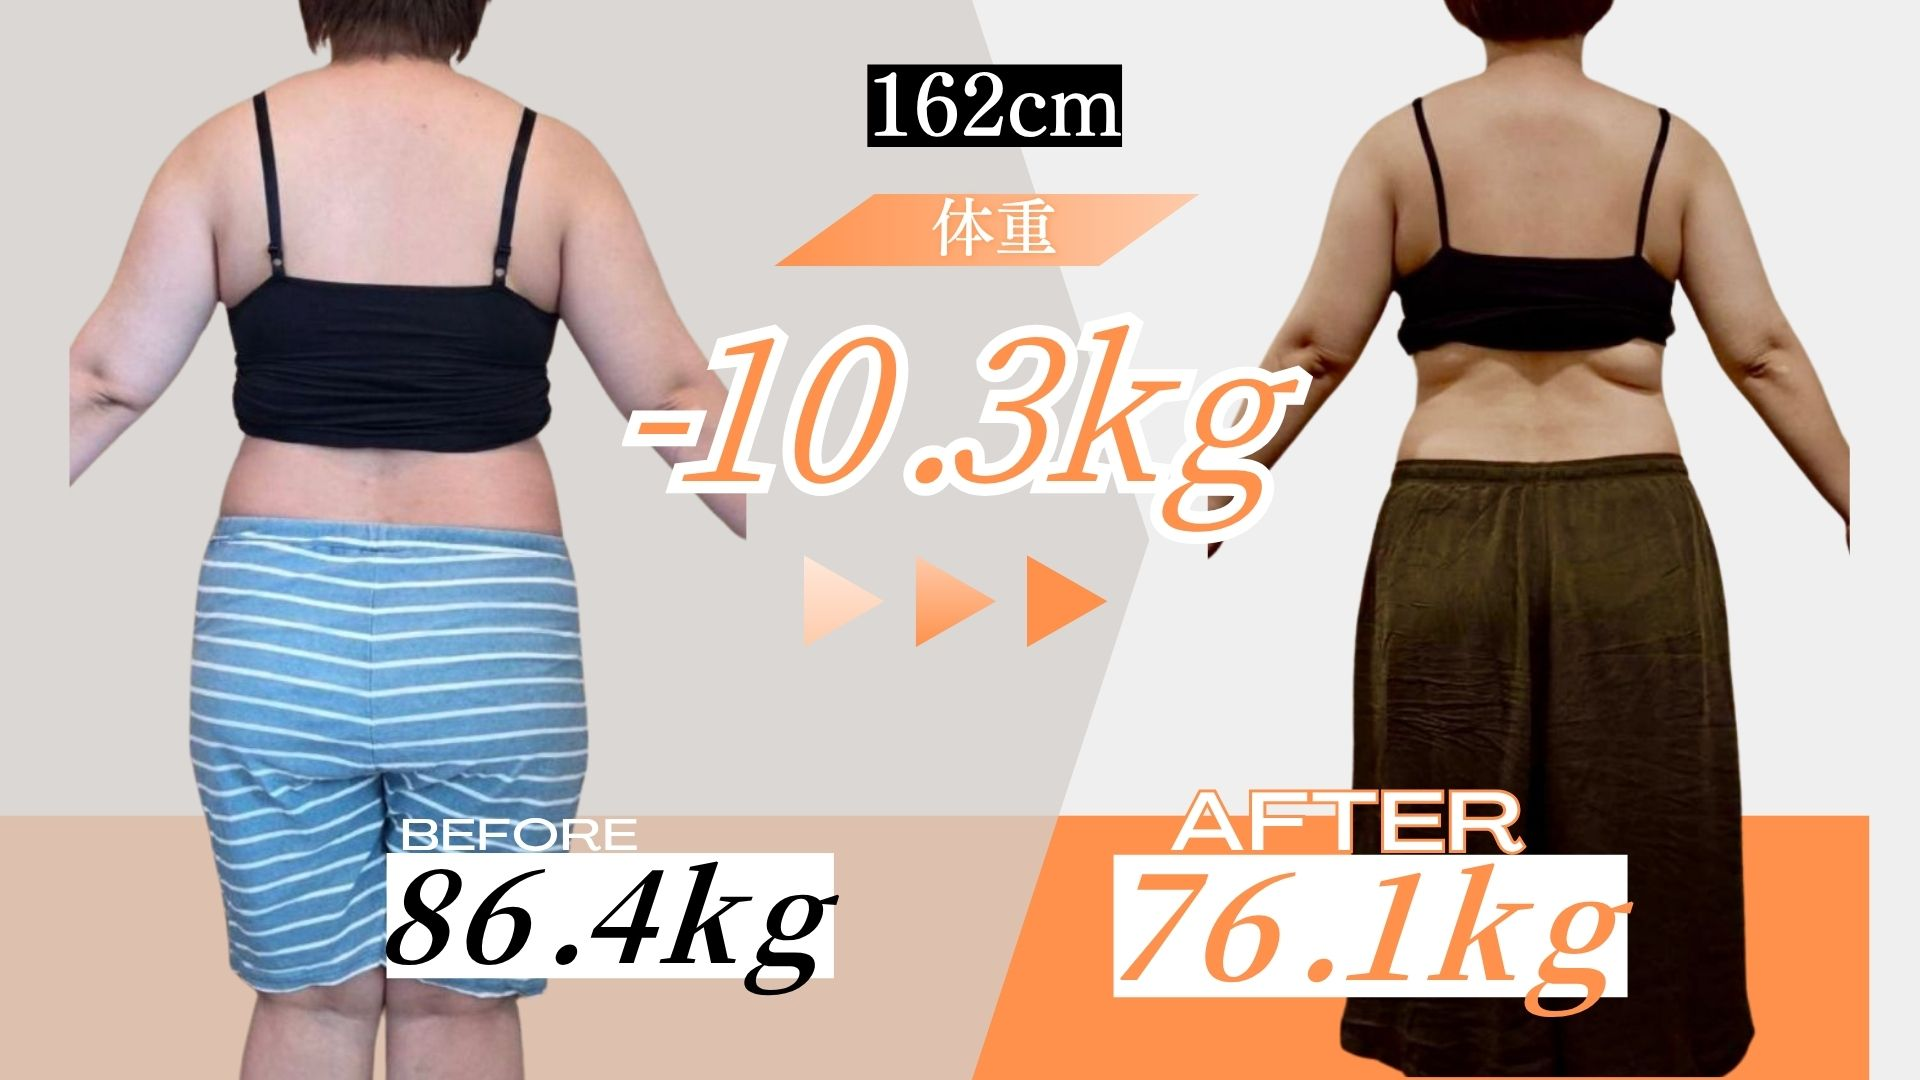
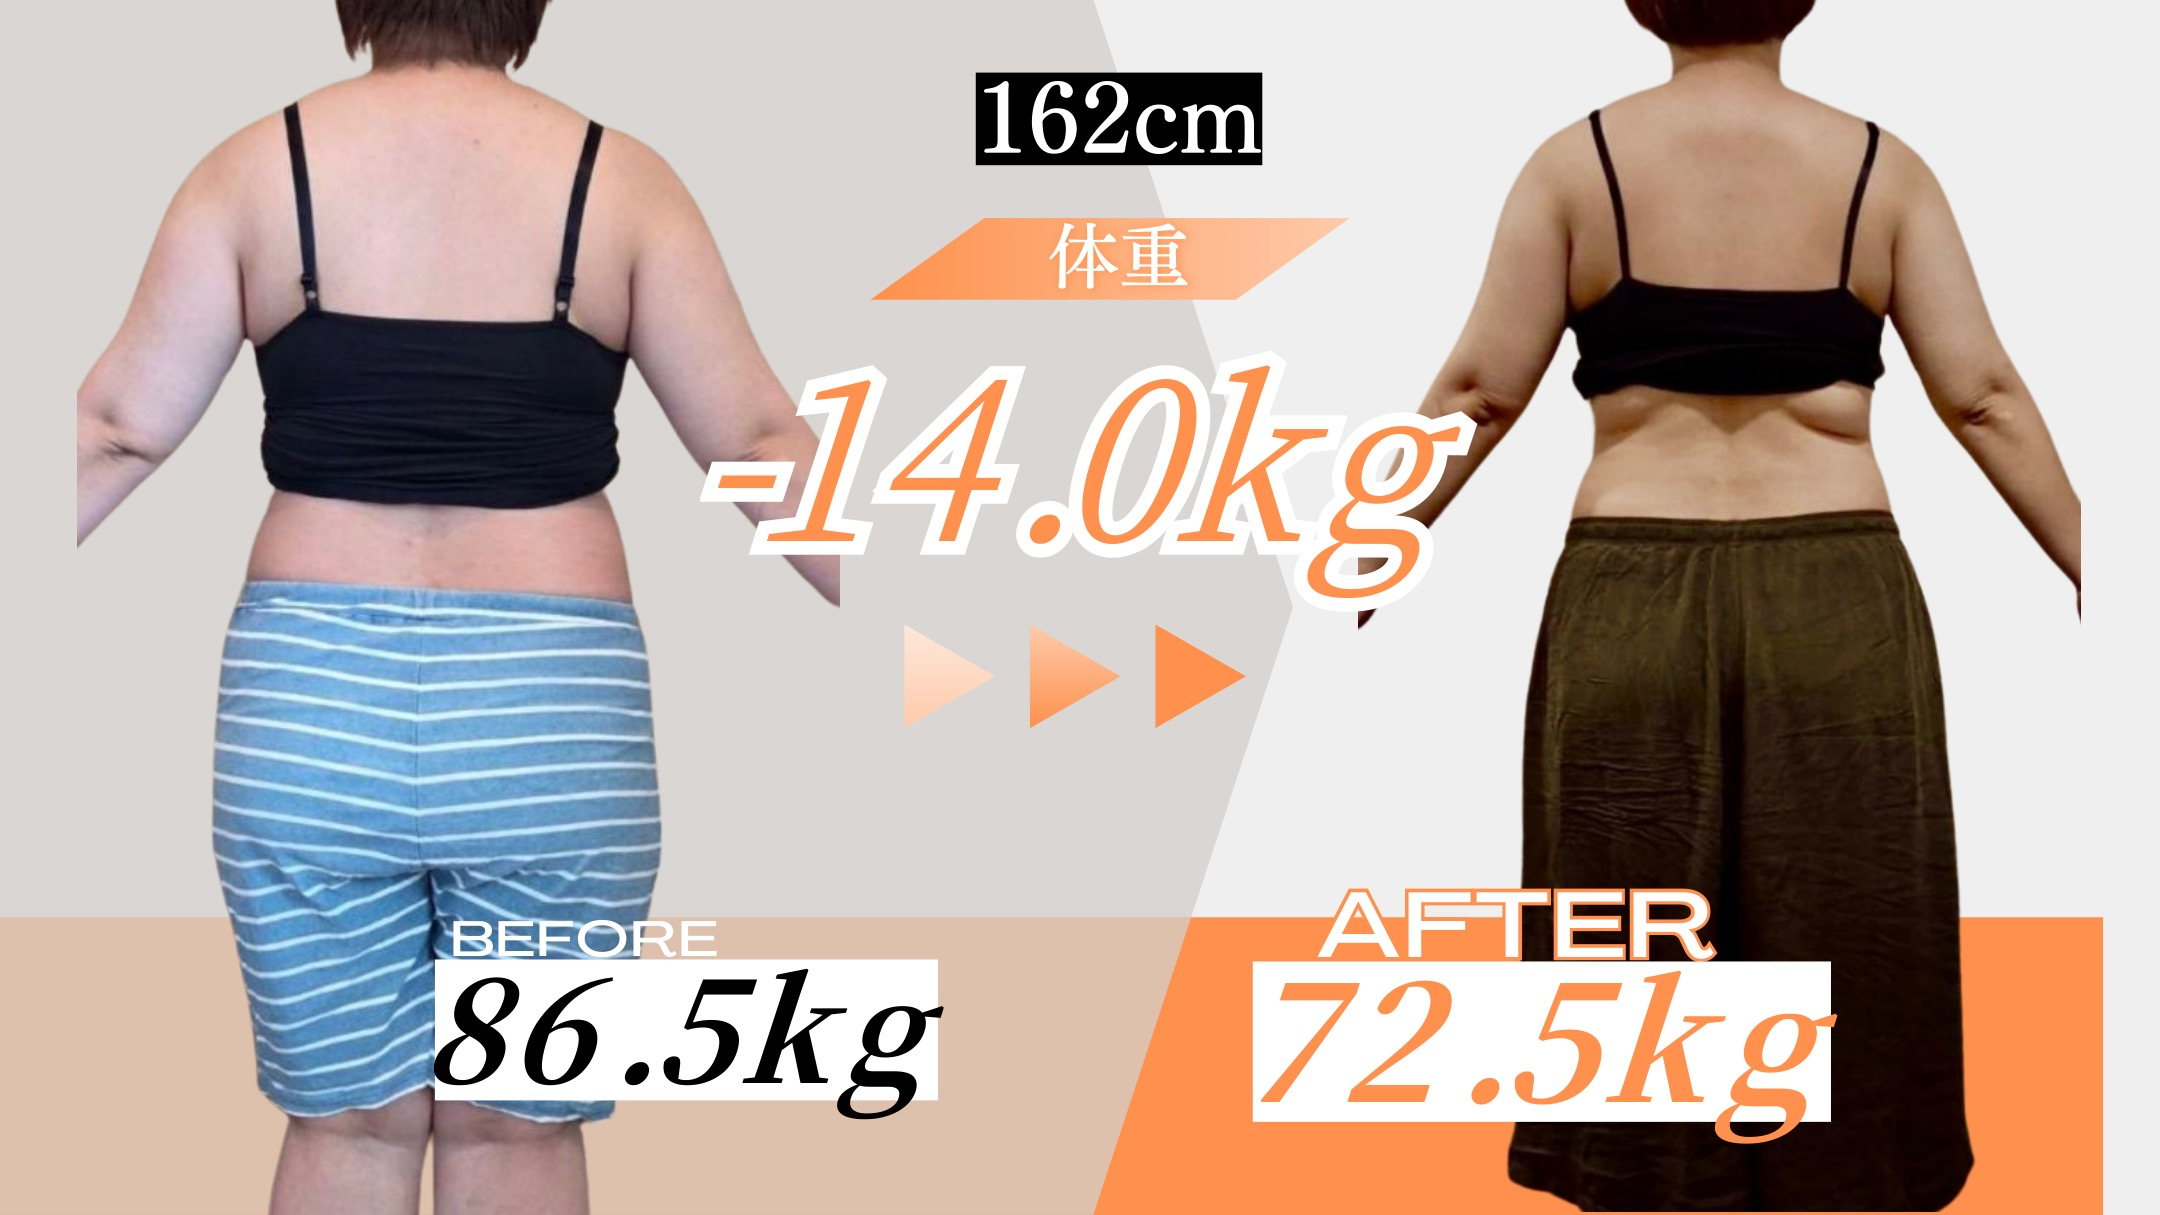
CLIENT 04: ちーちゃんの新BA画像 + 体重データを86.5→72.5kg(-14kg)に更新

diff --git a/index.html b/index.html
@@ -1042,7 +1042,7 @@
         future: 'いつも外見に厳しい方にも<span class="hl">「痩せたね」って言ってもらえてびっくり</span>。本当に嬉しい！これからも続けます！'
       },
       {
-        img: 'images/client3.jpg', height: 162, start: 86.4, end: 76.1, down: 10.3,
+        img: 'images/client3.jpg', height: 162, start: 86.5, end: 72.5, down: 14.0,
         age: '40代・自営業', shape: shapes.c3,
         why: '返信が遅れても<span class="hl">絶対に見捨てず、フォローしてくださった</span>からこその結果。一人じゃ絶対に痩せられませんでした。',
         future: '体重以上に<span class="hl">「元気・活力が出た」</span>ところが一番嬉しくて、家族も喜んでくれてる。いつも温かい愛をありがとうございます！ぬんさん大好き♡'

diff --git a/lp.html b/lp.html
@@ -1042,7 +1042,7 @@
         future: 'いつも外見に厳しい方にも<span class="hl">「痩せたね」って言ってもらえてびっくり</span>。本当に嬉しい！これからも続けます！'
       },
       {
-        img: 'images/client3.jpg', height: 162, start: 86.4, end: 76.1, down: 10.3,
+        img: 'images/client3.jpg', height: 162, start: 86.5, end: 72.5, down: 14.0,
         age: '40代・自営業', shape: shapes.c3,
         why: '返信が遅れても<span class="hl">絶対に見捨てず、フォローしてくださった</span>からこその結果。一人じゃ絶対に痩せられませんでした。',
         future: '体重以上に<span class="hl">「元気・活力が出た」</span>ところが一番嬉しくて、家族も喜んでくれてる。いつも温かい愛をありがとうございます！ぬんさん大好き♡'